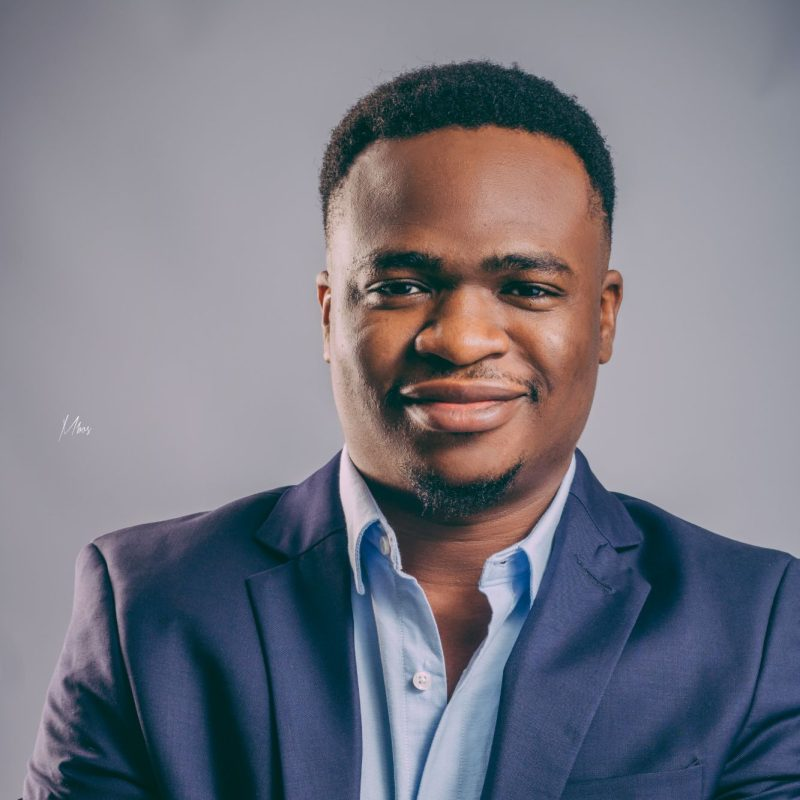
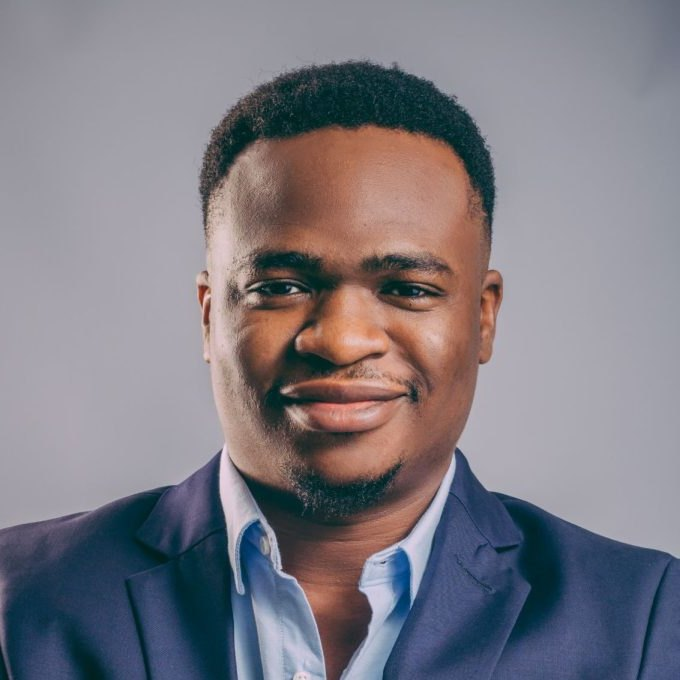
Confirmed Founders Build Live lineup: running order, builds and corrections (#88)
Panel4LineupSeeder sets the night of 18 November in full. Dr Ayse Basak
Cinar at 6.35pm (Building Emotional UX: From AI Companion to Reusable AI
Skills, with the fictional-workplace-scenario line), Bola Naomi Soko at
7.00pm (App Development for Personal Effectiveness, a certificate
generator built live in Google AI Studio, her copy as written) and
Adeyinka Prime at 7.25pm (WorkProof AI, his copy as written). Each
speaker's build lives in a new build_note column on the panel-speaker
pivot, because the same person demos different things at different
panels and their bio should stay who they are.

Bola's row is her Panel 3 one under her fuller name; Ayse gains her Dr
title with both older seeders made rename-safe so no rerun can mint a
twin. The itinerary carries the running order, the description states
that every build uses fictional or sample data only and that anyone
registered for the earlier date is still registered, and the organiser
block names Abisola Areola as the host. Adeyinka's headshot is recropped
past the photographer signature.

Claude-Session: https://claude.ai/code/session_013aWqTC9p18CPFc7es21Vid

diff --git a/database/seeders/Panel4LineupSeeder.php b/database/seeders/Panel4LineupSeeder.php
@@ -1,0 +1,100 @@
+<?php
+
+namespace Database\Seeders;
+
+use App\Models\PanelSession;
+use App\Models\PanelSpeaker;
+use Illuminate\Database\Seeder;
+
+/**
+ * The confirmed Founders Build Live lineup and running order for
+ * Wednesday 18 November 2026: Dr Ayse Basak Cinar at 6.35pm, Bola Naomi
+ * Soko at 7.00pm, Adeyinka Prime at 7.25pm. Session titles and build
+ * descriptions are the speakers' own copy, used as written.
+ *
+ * Deliberately rewrites the itinerary, the description and these three
+ * speakers' details: that is the point of the update. It does not touch
+ * the banner, the date or any other panel.
+ *
+ * Re-runnable:
+ *   php artisan db:seed --class=Panel4LineupSeeder --force
+ */
+class Panel4LineupSeeder extends Seeder
+{
+    public function run(): void
+    {
+        $founders = PanelSession::where('slug', 'founders-build-live')->first();
+
+        if (! $founders) {
+            return;
+        }
+
+        $founders->update([
+            'description' => "Panel 4 is a live-build session. Instead of talking about AI, founders build with it on screen, going from a real problem to a working solution in front of you. You'll see the prompts, the wrong turns and the judgement calls, not a polished demo. After the builds, put your questions to the speakers. The session is free, online, and recorded and shared publicly afterwards. Every build uses fictional or sample data only, with nothing personal on screen. Anyone registered for the earlier date is still registered.",
+            'itinerary'   => [
+                '6.30pm | Doors open and welcome',
+                '6.35pm | Dr Ayse Basak Cinar: Building Emotional UX: From AI Companion to Reusable AI Skills',
+                '7.00pm | Bola Naomi Soko: App Development for Personal Effectiveness',
+                '7.25pm | Adeyinka Prime: WorkProof AI: Your Experience, Your Skills, Your Next Opportunity',
+                '7.50pm | Audience Q&A, hard questions welcome',
+                '8.00pm | Close',
+            ],
+        ]);
+
+        // ── Dr Ayse Basak Cinar ──────────────────────────────────────────
+        // Her earlier row carries the undoctored name; look both up so a
+        // rerun after the rename still finds her and never mints a twin.
+        $ayse = PanelSpeaker::whereIn('name', ['Dr Ayse Basak Cinar', 'Ayse Basak Cinar'])->first()
+            ?? new PanelSpeaker(['bio' => '']);
+
+        $ayse->fill([
+            'name'    => 'Dr Ayse Basak Cinar',
+            // The title already names the company, so roleLine() prints it
+            // once rather than twice.
+            'title'   => 'Founder, ABC Consulting; International Leadership Development Consultant and EQAI Strategist',
+            'company' => 'ABC Consulting',
+        ])->save();
+
+        // ── Bola Naomi Soko ──────────────────────────────────────────────
+        // She spoke at Panel 3 as "Bola Soko"; same row, fuller name now.
+        $bola = PanelSpeaker::whereIn('name', ['Bola Naomi Soko', 'Bola Soko'])->first()
+            ?? new PanelSpeaker(['bio' => '']);
+
+        $bola->fill([
+            'name'    => 'Bola Naomi Soko',
+            'title'   => 'Founder',
+            'company' => 'Women in AI & Automation',
+            'bio'     => 'Two decades in high-stakes procurement, from the London 2012 Olympic build to the Covid Vaccine Taskforce. Joined us for Panel 3.',
+        ]);
+        $bola->photo_path = $bola->photo_path ?: 'images/speakers/bola-soko.jpg';
+        $bola->save();
+
+        // ── Adeyinka Prime ───────────────────────────────────────────────
+        $adeyinka = PanelSpeaker::firstOrCreate(
+            ['name' => 'Adeyinka Prime'],
+            ['title' => 'Team Lead', 'company' => 'Distro', 'bio' => 'Team Lead at Distro.', 'photo_path' => 'images/speakers/adeyinka-prime.jpg']
+        );
+
+        // Running order and each speaker's build, their own copy as written.
+        // syncWithoutDetaching updates the pivot in place for anyone already
+        // attached, which also replaces any older talk title left on the
+        // founders pivot from before the lineup was confirmed.
+        $founders->speakers()->syncWithoutDetaching([
+            $ayse->id => [
+                'topic'      => 'Building Emotional UX: From AI Companion to Reusable AI Skills',
+                'build_note' => 'This demonstration shows how to design, build and test AI support using a fictional workplace scenario.',
+                'sort_order' => 1,
+            ],
+            $bola->id => [
+                'topic'      => 'App Development for Personal Effectiveness',
+                'build_note' => 'She builds a certificate generator in Google AI Studio, live from plain-English prompts. Using Google AI Studio to build apps is a brilliant way to boost your personal productivity, as it lets you turn repetitive tasks into custom software using plain English. Rather than wrestling with complex code, you can simply prompt the AI to prototype and deploy tailored tools, such as an automated certificate generator for your project in just a few clicks. Ultimately, it allows you to build digital systems suited to how you work best. The takeaway: how to turn a repetitive task into a custom tool using plain English.',
+                'sort_order' => 2,
+            ],
+            $adeyinka->id => [
+                'topic'      => 'WorkProof AI: Your Experience, Your Skills, Your Next Opportunity',
+                'build_note' => 'An AI-powered career agent that helps job seekers discover opportunities based on their actual skills and experience, not just their job titles or qualifications. He uploads a fictional CV, has the AI identify the skills in it (including transferable skills), and receives personalised job recommendations, each with an explanation of why it matches the profile. The takeaway: a practical method for building an agent that matches people to opportunities by their skills and experience, not only their job titles.',
+                'sort_order' => 3,
+            ],
+        ]);
+    }
+}

diff --git a/tests/Feature/PanelEventPageTest.php b/tests/Feature/PanelEventPageTest.php
@@ -171,8 +171,7 @@ class PanelEventPageTest extends TestCase
             ->assertSee('18 November 2026')
             ->assertSee('90 minutes')
             ->assertSee('Ayse Basak Cinar')
-            ->assertSee('Leadership Consultant and AI Strategist')
-            ->assertSee('Adapting a custom GPT into a reusable AI skill, live')
+            ->assertSee('Building Emotional UX: From AI Companion to Reusable AI Skills')
             ->assertSee('More speakers to be announced')
             ->assertSee('Founders build live on screen')
             // 6.30pm GMT for 90 minutes: the schema ends at 8pm with the
@@ -184,7 +183,7 @@ class PanelEventPageTest extends TestCase
 
         // Re-running cannot duplicate Ayse or the panel.
         $this->seed(\Database\Seeders\Panel4SplitSeeder::class);
-        $this->assertSame(1, \App\Models\PanelSpeaker::where('name', 'Ayse Basak Cinar')->count());
+        $this->assertSame(1, \App\Models\PanelSpeaker::whereIn('name', ['Dr Ayse Basak Cinar', 'Ayse Basak Cinar'])->count());
         $this->assertSame(1, \App\Models\PanelSession::where('slug', 'founders-build-live')->count());
     }
 
@@ -250,6 +249,54 @@ class PanelEventPageTest extends TestCase
             ->assertOk()
             ->assertSee('18 November 2026')
             ->assertSee('2026-11-18T18:30:00+00:00', false);
+    }
+
+    public function test_the_confirmed_lineup_renders_in_running_order(): void
+    {
+        $this->seed(\Database\Seeders\Panel3Seeder::class);
+        $this->seed(\Database\Seeders\Panel4Seeder::class);
+        $this->seed(\Database\Seeders\Panel4SplitSeeder::class);
+        $this->seed(\Database\Seeders\AdeyinkaPrimeSeeder::class);
+        $this->seed(\Database\Seeders\Panel4LineupSeeder::class);
+
+        $html = $this->get('/sessions/founders-build-live')->assertOk()->getContent();
+
+        // All three, in the order of the night.
+        foreach (['Dr Ayse Basak Cinar', 'Bola Naomi Soko', 'Adeyinka Prime'] as $name) {
+            $this->assertStringContainsString($name, $html);
+        }
+        $this->assertLessThan(strpos($html, 'ss-speaker-name">Bola'), strpos($html, 'ss-speaker-name">Dr Ayse'));
+        $this->assertLessThan(strpos($html, 'ss-speaker-name">Adeyinka'), strpos($html, 'ss-speaker-name">Bola'));
+
+        // Session titles and the speakers' own build copy.
+        $this->assertStringContainsString('Building Emotional UX: From AI Companion to Reusable AI Skills', $html);
+        $this->assertStringContainsString('fictional workplace scenario', $html);
+        $this->assertStringContainsString('App Development for Personal Effectiveness', $html);
+        $this->assertStringContainsString('certificate generator in Google AI Studio', $html);
+        $this->assertStringContainsString('Covid Vaccine Taskforce', $html);
+        $this->assertStringContainsString('Founder <span class="ss-role-sep">·</span> Women in AI &amp; Automation', $html);
+        $this->assertStringContainsString('uploads a fictional CV', $html);
+
+        // Running order, host line and the reschedule reassurance.
+        $this->assertStringContainsString('7.25pm', $html);
+        $this->assertStringContainsString('Your host on the night is Abisola Areola', $html);
+        $this->assertStringContainsString('Anyone registered for the earlier date is still registered.', $html);
+        $this->assertStringContainsString('fictional or sample data only', $html);
+
+        // His name is Adeyinka Prime; Adefila appears only inside his
+        // LinkedIn URL, never as display text.
+        $this->assertStringNotContainsString('Adefila', $html);
+
+        // The rename did not strand her Panel 3 appearance or mint twins.
+        $this->assertSame(1, \App\Models\PanelSpeaker::whereIn('name', ['Dr Ayse Basak Cinar', 'Ayse Basak Cinar'])->count());
+        $this->assertSame(1, \App\Models\PanelSpeaker::whereIn('name', ['Bola Naomi Soko', 'Bola Soko'])->count());
+        $this->assertSame(3, \App\Models\PanelSession::where('slug', 'founders-build-live')->first()->speakers()->count());
+
+        // Reruns of any seeder in any order stay idempotent.
+        $this->seed(\Database\Seeders\Panel4SplitSeeder::class);
+        $this->seed(\Database\Seeders\Panel4LineupSeeder::class);
+        $this->assertSame(1, \App\Models\PanelSpeaker::whereIn('name', ['Dr Ayse Basak Cinar', 'Ayse Basak Cinar'])->count());
+        $this->assertSame(3, \App\Models\PanelSession::where('slug', 'founders-build-live')->first()->speakers()->count());
     }
     public function test_the_sessions_index_lists_a_second_upcoming_panel(): void
     {

diff --git a/database/seeders/Panel4SplitSeeder.php b/database/seeders/Panel4SplitSeeder.php
@@ -69,18 +69,22 @@ class Panel4SplitSeeder extends Seeder
          * firstOrCreate by name, because accepting her pitch from the admin
          * also mints a PanelSpeaker and this must not create a twin.
          */
-        $ayse = PanelSpeaker::firstOrCreate(
-            ['name' => 'Ayse Basak Cinar'],
-            [
-                'title'   => 'Leadership Consultant and AI Strategist',
-                'company' => 'ABC I To Be the One Consulting',
+        // Looked up under both spellings so a rerun after the lineup
+        // seeder's rename cannot mint a twin.
+        $ayse = PanelSpeaker::whereIn('name', ['Dr Ayse Basak Cinar', 'Ayse Basak Cinar'])->first();
+
+        if (! $ayse) {
+            $ayse = PanelSpeaker::create([
+                'name'    => 'Dr Ayse Basak Cinar',
+                'title'   => 'Founder, ABC Consulting; International Leadership Development Consultant and EQAI Strategist',
+                'company' => 'ABC Consulting',
                 'bio'     => 'Leadership consultant and AI strategist helping people turn AI from a buzzword into a working tool.',
-            ]
-        );
+            ]);
+        }
 
         $founders->speakers()->syncWithoutDetaching([
             $ayse->id => [
-                'topic'      => 'Adapting a custom GPT into a reusable AI skill, live',
+                'topic'      => 'Building Emotional UX: From AI Companion to Reusable AI Skills',
                 'sort_order' => 1,
             ],
         ]);

diff --git a/resources/views/sessions/show.blade.php b/resources/views/sessions/show.blade.php
@@ -198,6 +198,9 @@
                         @if($speaker->pivot->topic)
                             <p class="ss-speaker-topic"><i class="fas fa-comment-dots"></i> {{ $speaker->pivot->topic }}</p>
                         @endif
+                        @if($speaker->pivot->build_note)
+                            <p class="ss-speaker-bio">{{ $speaker->pivot->build_note }}</p>
+                        @endif
                         @if($speaker->bio)
                             <p class="ss-speaker-bio">{{ $speaker->bio }}</p>
                         @endif
@@ -290,6 +293,7 @@
                 <span class="ath-sub">Hosted by</span>
                 <h2 class="ss-info-title">Skills Co-op</h2>
                 <p class="ss-organiser-text">
+                    Your host on the night is Abisola Areola, founder of Skills Co-op.
                     The Skills Co-op Sessions are a monthly panel series from Aethryna Digital
                     Skills Co-op CIC, the community interest company widening access to digital
                     skills and meaningful career progression for underserved communities.

diff --git a/database/migrations/2026_11_16_000001_add_build_note_to_panel_session_speakers.php b/database/migrations/2026_11_16_000001_add_build_note_to_panel_session_speakers.php
@@ -1,0 +1,28 @@
+<?php
+
+use Illuminate\Database\Migrations\Migration;
+use Illuminate\Database\Schema\Blueprint;
+use Illuminate\Support\Facades\Schema;
+
+/**
+ * What each speaker is building at this particular session, in their own
+ * words. It lives on the pivot, not the speaker: the same person speaks at
+ * several panels with different builds, and their bio should stay who they
+ * are rather than absorb what they happen to be demoing this month.
+ */
+return new class extends Migration
+{
+    public function up(): void
+    {
+        Schema::table('panel_session_speakers', function (Blueprint $table) {
+            $table->text('build_note')->nullable()->after('topic');
+        });
+    }
+
+    public function down(): void
+    {
+        Schema::table('panel_session_speakers', function (Blueprint $table) {
+            $table->dropColumn('build_note');
+        });
+    }
+};

diff --git a/resources/views/sessions.blade.php b/resources/views/sessions.blade.php
@@ -125,6 +125,9 @@
                         @if($speaker->pivot->topic)
                             <p class="ss-speaker-topic"><i class="fas fa-comment-dots"></i> {{ $speaker->pivot->topic }}</p>
                         @endif
+                        @if($speaker->pivot->build_note)
+                            <p class="ss-speaker-bio">{{ $speaker->pivot->build_note }}</p>
+                        @endif
                         @if($speaker->bio)
                             <p class="ss-speaker-bio">{{ $speaker->bio }}</p>
                         @endif

diff --git a/database/seeders/AdeyinkaPrimeSeeder.php b/database/seeders/AdeyinkaPrimeSeeder.php
@@ -47,7 +47,7 @@ class AdeyinkaPrimeSeeder extends Seeder
         $founders->speakers()->syncWithoutDetaching([
             $adeyinka->id => [
                 'topic'      => 'WorkProof AI: Your Experience, Your Skills, Your Next Opportunity',
-                'sort_order' => 2,
+                'sort_order' => 3,
             ],
         ]);
     }

diff --git a/app/Models/PanelSession.php b/app/Models/PanelSession.php
@@ -46,7 +46,7 @@ class PanelSession extends Model
             'panel_session_speakers',
             'panel_session_id',
             'panel_speaker_id'
-        )->withPivot('topic', 'sort_order')
+        )->withPivot('topic', 'build_note', 'sort_order')
          ->orderByPivot('sort_order');
     }
 

diff --git a/app/Models/PanelSpeaker.php b/app/Models/PanelSpeaker.php
@@ -58,7 +58,7 @@ class PanelSpeaker extends Model
             'panel_session_speakers',
             'panel_speaker_id',
             'panel_session_id'
-        )->withPivot('topic', 'sort_order');
+        )->withPivot('topic', 'build_note', 'sort_order');
     }
 
     /**
